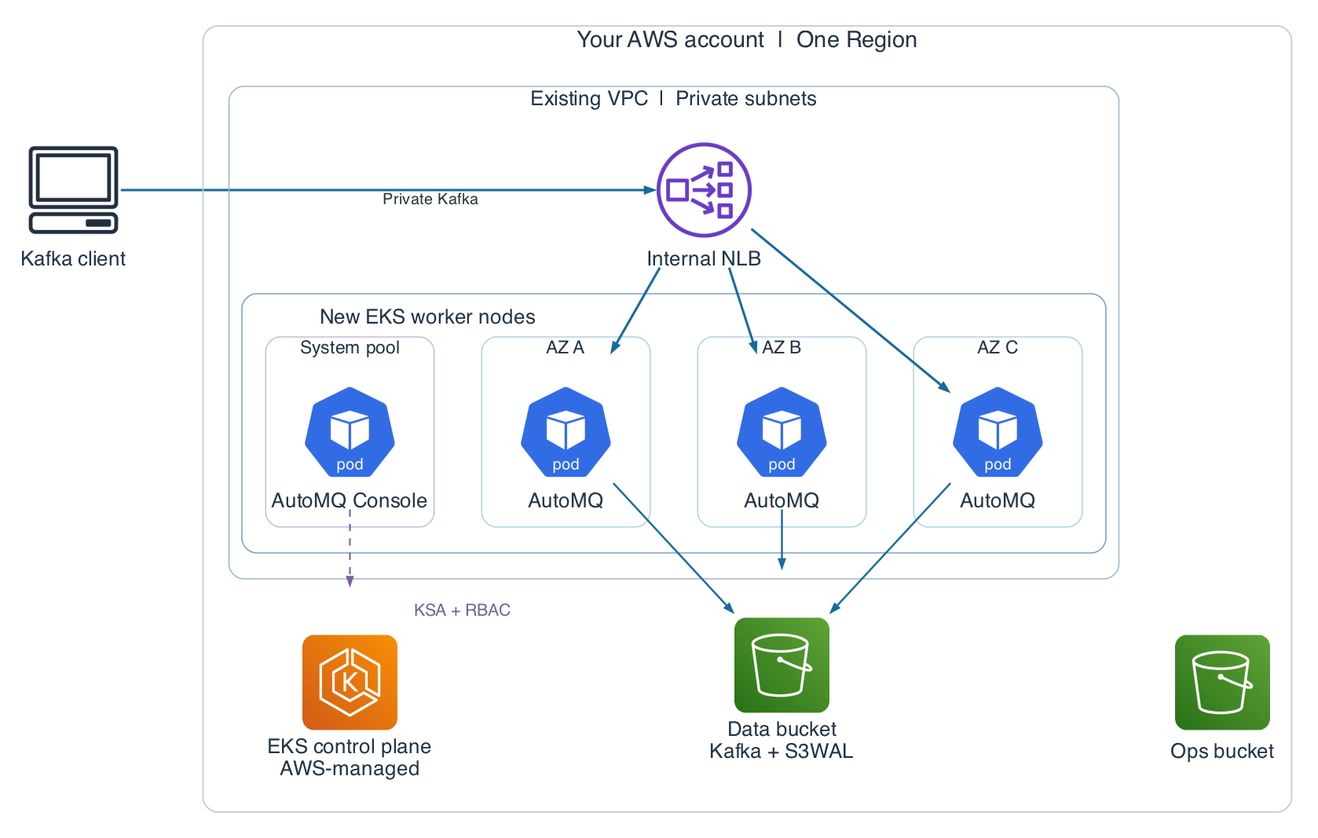
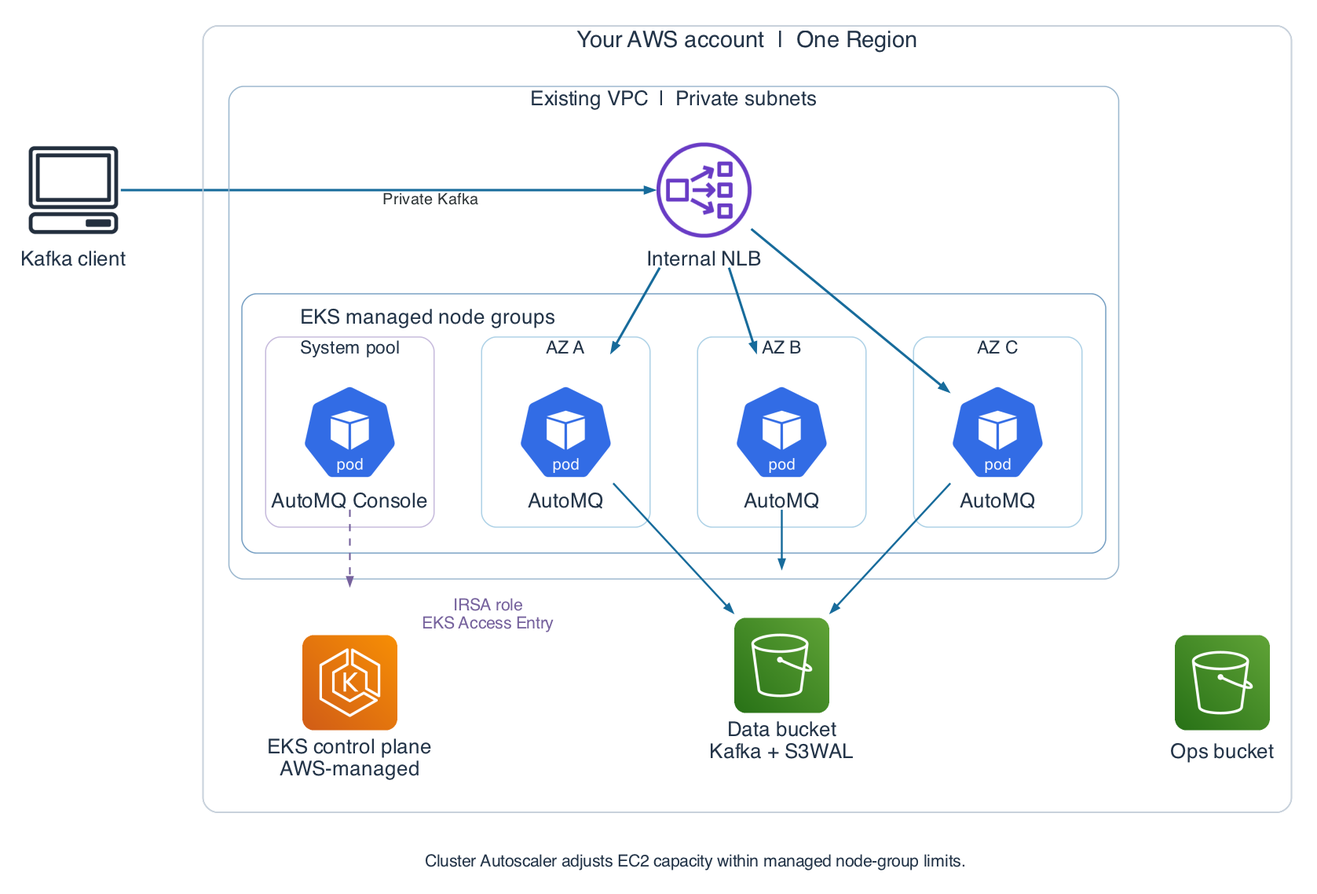
feat: use released AWS Console with EKS Access Entries

diff --git a/byoc-examples/setup/aws/aws-automq-env/assets/deployment-architecture.py b/byoc-examples/setup/aws/aws-automq-env/assets/deployment-architecture.py
@@ -4,7 +4,8 @@ Fixed Graphviz positions keep the customer overview compact and reproducible.
 Solid blue edges show Kafka/data traffic; the dashed purple edge is Kubernetes
 management. S3 access uses the existing gateway endpoint (omitted for clarity).
 Each workload uses its own IRSA role; the drawing does not prove IAM policy.
-Cluster add-ons and the LB Controller/Autoscaler are omitted for clarity.
+Cluster add-ons and the LB Controller are omitted for clarity.
+Managed node-group capacity is supplied by Cluster Autoscaler.
 """
 from pathlib import Path
 
@@ -45,8 +46,8 @@ with Diagram(
         ]
         for key, label, x, y, width, height, fill, border, fontsize in panels:
             getcluster().node(key, label, pos=f"{x},{y}!", pin="true", shape="box", style="rounded", fillcolor=fill, color=border, width=str(width), height=str(height), fixedsize="true", labelloc="t", labeljust="l", fontsize=fontsize, fontcolor="#233448")
-        getcluster().node("eks-heading", "New EKS worker nodes", pos="1.9,3.4!", pin="true", shape="plaintext", width="3.7", height="0.35", fontsize="17", fontcolor="#233448")
-        getcluster().node("ksa-caption", "KSA + RBAC", pos="2.3,0.0!", pin="true", shape="plaintext", width="1.9", height="0.3", fontsize="14", fontcolor=CONTROL)
+        getcluster().node("eks-heading", "EKS managed node groups", pos="1.9,3.4!", pin="true", shape="plaintext", width="3.7", height="0.35", fontsize="17", fontcolor="#233448")
+        getcluster().node("access-caption", "IRSA role\nEKS Access Entry", pos="2.6,0.0!", pin="true", shape="plaintext", width="2.8", height="0.6", fontsize="14", fontcolor=CONTROL)
         with Cluster("Existing VPC  |  Private subnets", graph_attr={"bgcolor": "#F7FAFD", "color": "#9BB7CE", "fontsize": "17", "margin": "16"}):
             nlb = icon(NLB, "Internal NLB", 5.1, 4.8)
             with Cluster("New EKS worker nodes", graph_attr={"bgcolor": "#FFFFFF", "color": "#769FC3", "fontsize": "17", "margin": "16"}):
@@ -59,6 +60,7 @@ with Diagram(
         api = icon(EKS, "EKS control plane\nAWS-managed", 1.0, -0.9)
         data = icon(S3, "Data bucket\nKafka + S3WAL", 6.0, -0.7)
         ops = icon(S3, "Ops bucket", 11.1, -0.9)
+    diagram.dot.node("capacity-caption", "Cluster Autoscaler adjusts EC2 capacity within managed node-group limits.", pos="5.0,-2.85!", pin="true", shape="plaintext", width="12.0", height="0.4", fontsize="14", fontcolor="#233448")
     client >> Edge(label="Private Kafka", color=DATA, penwidth="2.0") >> nlb
     nlb >> Edge(color=DATA, penwidth="2.0") >> brokers
     for broker in brokers:

diff --git a/byoc-examples/setup/aws/aws-automq-env/scripts/check-static.py b/byoc-examples/setup/aws/aws-automq-env/scripts/check-static.py
@@ -18,6 +18,8 @@ def main():
     for root in ["console", "automq-example/instance", "automq-example/smoke"]:
         for path in (ROOT / root).glob("*.tf"):
             assert "clientSecret =" not in path.read_text(), f"Literal CONFIG secret in {path}."
+    console_source = (ROOT / "console" / "main.tf").read_text()
+    assert 'resource "kubernetes_cluster_role_binding_v1"' not in console_source, "Console must use its EKS Access Entry rather than a Kubernetes cluster-admin binding."
     print("PASS: script syntax, local documentation links and placeholder checks.")
 
 if __name__ == "__main__":

diff --git a/byoc-examples/setup/aws/aws-automq-env/README.md b/byoc-examples/setup/aws/aws-automq-env/README.md
@@ -4,7 +4,7 @@ Use this example to deploy AutoMQ BYOC in your AWS account, reuse your existing 
 
 At the end of this guide, you will have a persistent Console, a managed Kafka Instance running across three Availability Zones, and a successful Kafka produce/consume check.
 
-> **Before provisioning AWS resources:** obtain a compatible Console image from AutoMQ. The Console image must support this ServiceAccount-based EKS deployment. A published compatible image is not yet available; `8.3.28-aws` and `latest` cannot be used. Set the image supplied by AutoMQ as `console_image`.
+This guide uses the released AWS Console image `automq.azurecr.io/automq/automq-byoc-console:8.4.13-aws` with Console Helm Chart `8.3.28`. The image runs the product; the Chart installs it. These version numbers do not need to match. Pin `console_image` to the exact released image in the [component configuration](docs/configuration.md#component-versions).
 
 ## In this guide
 
@@ -13,7 +13,8 @@ At the end of this guide, you will have a persistent Console, a managed Kafka In
 3. [Parameters you need to set](#parameters-you-need-to-set)
 4. [Deploy the environment](#deploy-the-environment)
 5. [Connect and verify Kafka](#connect-and-verify-kafka)
-6. [Clean up](#clean-up)
+6. [Scale the Instance and EKS capacity](#scale-the-instance-and-eks-capacity)
+7. [Clean up](#clean-up)
 
 For other requirements, see [configuration and deployment choices](docs/configuration.md) and [operations and troubleshooting](docs/operations.md).
 
@@ -21,7 +22,7 @@ For other requirements, see [configuration and deployment choices](docs/configur
 
 ![AutoMQ deployment on a new EKS cluster in your AWS account](assets/deployment-architecture.png)
 
-The Console and Kafka Instance share the new EKS cluster but use separate node pools and identities. Applications reach Kafka through a private Network Load Balancer (NLB). Console uses its Kubernetes ServiceAccount and RBAC to manage this cluster, and its own IRSA role to call AWS APIs. Each Instance has its own Pod role, as do CNI, EBS CSI, the LB Controller and Autoscaler for their AWS API access. Nodes have no AutoMQ business permissions.
+The Console and Kafka Instance share the new EKS cluster but use separate node pools and identities. Applications reach Kafka through a private Network Load Balancer (NLB). Console obtains its own IAM role through IRSA. An EKS Access Entry grants that role permission to manage Kubernetes resources in this cluster. Each Instance has its own Pod role, as do CNI, EBS CSI, the LB Controller and Autoscaler for their AWS API access. Nodes have no AutoMQ business permissions.
 
 | Resource | Default configuration | Created and managed by |
 | --- | --- | --- |
@@ -37,7 +38,7 @@ The Console and Kafka Instance share the new EKS cluster but use separate node p
 
 The default creates five EC2 nodes before the Instance starts, each with a 40 GiB encrypted gp3 root disk. AWS charges apply to EKS, EC2, EBS, S3, load balancing, logging and other enabled services, alongside the AutoMQ subscription. Node-pool limits control available EKS capacity; they do not change the Instance's configured three-node size. An optional NAT gateway adds hourly and data-processing charges.
 
-This guide selects **Default Permissions + Helm Console + managed K8S Instance + IRSA**. Other [permission and deployment choices](docs/configuration.md#permission-and-deployment-choices) are alternatives, not additional steps to execute.
+This guide selects **Default Permissions + Helm Console + EKS Access Entry + managed K8S Instance + IRSA**. Other [permission and deployment choices](docs/configuration.md#permission-and-deployment-choices) are alternatives, not additional steps to execute.
 
 ## Before you start
 
@@ -50,15 +51,16 @@ Use these official guides when reviewing network requirements, node-pool sizing 
 | Prepare VPC, DNS and S3 access | [Prepare an AWS VPC](https://docs.automq.com/automq-cloud/getting-started/install-byoc-environment/aws/prepare-vpc) |
 | Plan node pools and Pod placement | [Prepare EKS compute capacity](https://docs.automq.com/automq-cloud/deploy-automq-on-kubernetes/deploy-to-aws-eks#step-3-prepare-eks-compute-capacity) and [SchedulingSpec](https://docs.automq.com/automq-cloud/deploy-automq-on-kubernetes/overview#schedulingspec) |
 | Review Console deployment and AWS workload roles | [Deploy Console on EKS](https://docs.automq.com/automq-cloud/getting-started/install-byoc-environment/aws/install-automq-on-aws#deploy-automq-console-on-eks) and [Instance IAM role and ServiceAccount](https://docs.automq.com/automq-cloud/deploy-automq-on-kubernetes/deploy-to-aws-eks#step-5-prepare-the-automq-workload-iam-role-and-serviceaccount) |
+| Review managed node-group autoscaling | [Cluster Autoscaler preparation](https://docs.automq.com/automq-cloud/deploy-automq-on-kubernetes/deploy-to-aws-eks) |
 | Create AutoMQ management API credentials | [AutoMQ Service Accounts](https://docs.automq.com/automq-cloud/manage-identities-and-access/service-accounts) |
 
-The official guides cover several deployment paths. In this example, Terraform prepares the node pools and cluster components, and Console manages Instance Data buckets, roles and private DNS. Follow this guide's `automq.io/pool` labels, Console ServiceAccount/RBAC and IRSA configuration; do not repeat manual provisioning steps or replace them with the alternative Access Entry/EKS Pod Identity configurations. Keep the supplied [component versions](docs/configuration.md#component-versions) together when planning changes.
+The official guides cover several deployment paths. In this example, Terraform prepares the node pools and cluster components, and Console manages Instance Data buckets, roles and private DNS. Follow this guide's `automq.io/pool` labels, Console IAM Role/Access Entry and IRSA configuration. Terraform creates the Console Access Entry described in the official [EKS authorization steps](https://docs.automq.com/automq-cloud/getting-started/install-byoc-environment/aws/install-automq-on-aws#grant-access-to-the-eks-cluster); you do not need to repeat those commands manually. Keep the supplied [component versions](docs/configuration.md#component-versions) together when planning changes.
 
 ### Prerequisites
 
 | Prepare | Requirement |
 | --- | --- |
-| AutoMQ environment | A new AWS BYOC Environment, its complete `CONFIG`, an active subscription and the compatible Console image |
+| AutoMQ environment | A new AWS BYOC Environment, its complete `CONFIG`, an active subscription and an official released AWS Console 8.x image |
 | AWS access | An AWS CLI profile with permission to provision the listed resources and the IAM role ARN used for EKS administration |
 | Existing network | One private subnet in each of three AZs, all in the VPC and Region specified by `CONFIG`; VPC DNS support and hostnames enabled |
 | S3 access | An S3 **Gateway** Endpoint associated with all selected private route tables; its policy allows the Ops bucket and future AutoMQ Data buckets |
@@ -100,7 +102,7 @@ Only the values in this table must be supplied for the standard path. Copy the s
 | `private_subnet_ids_by_az` | `infrastructure/terraform.tfvars` | Map exactly three AZ names to their private subnet IDs |
 | `s3_vpc_endpoint_id` | `infrastructure/terraform.tfvars` | Existing S3 Gateway Endpoint associated with those subnets' route tables |
 | `deployer_role_arn` | `infrastructure/terraform.tfvars` | IAM role actually used by your AWS profile to install Kubernetes/Helm resources; use the IAM role ARN, not an STS session ARN |
-| `console_image` | `console/terraform.tfvars` | Compatible `repository:tag` supplied by AutoMQ |
+| `console_image` | `console/terraform.tfvars` | Exact released AWS Console 8.x `repository:tag` from your installation command |
 | `automq_version` | `automq-example/instance/terraform.tfvars` | Available **data-plane** version shown by the initialized Console; this is separate from Console 8.x |
 | Management endpoint and keys | `AUTOMQ_BYOC_ENDPOINT`, `AUTOMQ_BYOC_ACCESS_KEY`, `AUTOMQ_BYOC_SECRET_KEY` | Local Console address and the AutoMQ management Service Account keys created in step 3 |
 | `kafka_password` | Environment variable `TF_VAR_kafka_password` | A dedicated password of at least 16 characters for the verification Kafka user |
@@ -114,6 +116,7 @@ The main defaults you may want to review are:
 | `system_instance_type` | `m7i.large` | Your system workloads need a different x86 node size |
 | `automq_instance_type` / Instance `instance_type` | Both `m7g.xlarge` | You choose another supported ARM Instance specification; **update both values together** |
 | `automq_max_nodes_per_az` | `4` | You want a different EKS capacity ceiling per AZ |
+| Instance `instance_node_count` | `3` | You want to change the requested number of AutoMQ nodes; Cluster Autoscaler supplies EC2 capacity within the node-pool limits |
 
 Keep EKS at 1.36 for the supplied component configuration. The [complete parameter reference](docs/configuration.md#terraform-inputs) covers the remaining defaults, versions and state-path options.
 
@@ -166,7 +169,7 @@ python3 scripts/kubectl.py get nodes \
   -L automq.io/pool,topology.kubernetes.io/zone
 ```
 
-**Expected result:** five Nodes are `Ready`: two in the `system` pool and one `automq` Node in each of three AZs. Terraform outputs identify the cluster, workload roles and network used by the following stages.
+**Expected result:** five Nodes are `Ready`: two in the `system` pool and one `automq` Node in each of three AZs. Terraform also grants the Console role a `STANDARD` EKS Access Entry with cluster-scoped `AmazonEKSClusterAdminPolicy`. Outputs identify the cluster, workload roles and network used by the following stages.
 
 The stages read adjacent local Terraform state by default. Keep this directory layout intact. For a shared deployment, configure a restricted remote backend and matching state handoffs before applying; see [state and credentials](docs/configuration.md#state-and-credentials).
 
@@ -174,7 +177,7 @@ The stages read adjacent local Terraform state by default. Keep this directory l
 
 ```bash
 cp console/terraform.tfvars.example console/terraform.tfvars
-# Set console_image to the compatible image supplied by AutoMQ.
+# Set console_image = "automq.azurecr.io/automq/automq-byoc-console:8.4.13-aws".
 terraform -chdir=console init
 terraform -chdir=console plan -out=console.tfplan
 terraform -chdir=console apply console.tfplan
@@ -252,6 +255,12 @@ python3 kafka-smoke.py
 **Expected result:** `PASS: produced and consumed exactly one matching record`, followed by the unique marker. You now have a working Kafka connection with authentication and Topic/Consumer group authorization.
 
 The default `SASL_PLAINTEXT` connection authenticates clients but does not encrypt traffic. This walkthrough is for a controlled private network. Review transport encryption, access and data-retention requirements before a production rollout.
+
+## Scale the Instance and EKS capacity
+
+The example uses Cluster Autoscaler with managed node groups. Changing the Instance size changes the requested number of AutoMQ Pods. Cluster Autoscaler then adds EC2 nodes when those Pods cannot fit on existing nodes, and removes unneeded nodes after scale-in. It does not choose the Instance's node count. The default business-pool limit is four EC2 nodes per AZ.
+
+To try **three → six → three** AutoMQ nodes, follow the [scaling procedure](docs/operations.md#scale-the-instance-and-managed-node-groups). Verify the Instance becomes available after each change, the Pods remain distributed across all three AZs, EC2 capacity follows the Pod demand, and the private Kafka check still passes. Scale-in can complete before Cluster Autoscaler's node-removal delay expires; continue observing EKS capacity until it settles.
 
 ## Clean up
 

diff --git a/byoc-examples/setup/aws/aws-automq-env/docs/configuration.md b/byoc-examples/setup/aws/aws-automq-env/docs/configuration.md
@@ -38,7 +38,7 @@ For sizing and placement requirements, review the official [EKS compute-capacity
 | Input | Required or default | Meaning and selection |
 | --- | --- | --- |
 | `automq_config` | Required; `TF_VAR_automq_config` | Same complete CONFIG as the foundation; Environment, Region and Ops bucket must match |
-| `console_image` | Required | Compatible `repository:tag` supplied by AutoMQ. This example has no compatible image default and rejects `latest`, `8.3.28` and `8.3.28-aws` |
+| `console_image` | Required | Exact official released AWS Console 8.x `repository:tag` from your installation command. Pin the release; `latest`, SNAPSHOT and placeholder values are rejected |
 | `infrastructure_state_path` | `../infrastructure/terraform.tfstate` | Foundation state path, resolved from `console/` |
 | `console_chart_path` | `null` | Optional local copy of the official pinned Chart for offline installation/validation. Default pulls the OCI Chart |
 | `deployer_assume_role_arn` | `null` | Optional explicit alternate-role path for AWS EKS token generation. The default uses the current profile session directly; use an authorized deployment role, never the Console role |
@@ -54,11 +54,12 @@ The Console persists state on an encrypted 20 GiB gp3 EBS volume. Its Service is
 | `automq_version` | Required | Data-plane version available in the initialized Console; use the selected Kafka Instance release, not a Console 8.x version |
 | `instance_name` | `aws-eks-managed-demo` | Display name for the new Kafka Instance |
 | `instance_type` | `m7g.xlarge` | Supported Instance specification matching foundation `automq_instance_type` |
+| `instance_node_count` | `3` | Requested AutoMQ node count, an integer of at least 3. Cluster Autoscaler supplies EC2 capacity for pending Pods within the foundation node-pool limits |
 | `infrastructure_state_path` | `../../infrastructure/terraform.tfstate` | Foundation state path, resolved from this directory |
 
 Set `AUTOMQ_BYOC_ENDPOINT`, `AUTOMQ_BYOC_ACCESS_KEY` and `AUTOMQ_BYOC_SECRET_KEY` in the environment for the AutoMQ provider. Create these keys using an AutoMQ management Service Account with the required permissions.
 
-The root creates three nodes across the three foundation AZs, with UsageBased pricing, S3WAL and SASL_PLAINTEXT. It reads the cluster **name**, private NLB subnets and business-pool scheduling from foundation state. It omits Data bucket, IAM role, DNS and namespace/ServiceAccount inputs so Console owns their lifecycle.
+The root defaults to three nodes across the three foundation AZs, with UsageBased pricing, S3WAL and SASL_PLAINTEXT. Set `instance_node_count` to change that requested size; see the [scaling procedure](operations.md#scale-the-instance-and-managed-node-groups). It reads the cluster **name**, private NLB subnets and business-pool scheduling from foundation state. It omits Data bucket, IAM role, DNS and namespace/ServiceAccount inputs so Console owns their lifecycle.
 
 The node root disks and Console volume explicitly enable EBS encryption. Instance metadata volumes use the Console-managed StorageClass `automq-disk-eks-gp3`; this example does not set `encrypted=true` on that StorageClass. Before creating an Instance, confirm that your AWS environment's EBS encryption settings meet your storage requirements.
 
@@ -118,7 +119,7 @@ Console access defaults to a localhost port-forward. Kafka requires independent 
 
 ## Permission and deployment choices
 
-Choose the combination that matches your resource-management policy. The deployment guide implements one path: **Default Permissions, Helm Console, managed K8S Instance and IRSA**.
+Choose the combination that matches your resource-management policy. The deployment guide implements one path: **Default Permissions, Helm Console, EKS Access Entry, managed K8S Instance and IRSA**.
 
 | Permission mode | Resource preparation | Suitable path |
 | --- | --- | --- |
@@ -132,16 +133,16 @@ For EKS Minimal, change the Instance inputs to supply `data_buckets`, `instance_
 | --- | --- | --- |
 | Console deployment | Official Helm Chart on EKS system nodes | VM/Docker; see the [EC2 Console example](../../ec2/README.md) |
 | Instance deployment | Console-managed K8S Instance | EC2/ASG; this is a different Instance deployment path |
-| Console Kubernetes access | In-cluster Kubernetes ServiceAccount + ClusterRoleBinding to `cluster-admin` | IAM principal + EKS Access Entry/EKS access policy; requires a compatible Console path and separate access configuration |
-| AWS workload credentials | IRSA for Console, each Instance and infrastructure components | AWS EKS Pod Identity is a distinct mechanism requiring separate compatibility validation |
+| Console Kubernetes access | Console IAM role + STANDARD EKS Access Entry with cluster-scoped `AmazonEKSClusterAdminPolicy` | Other authentication paths require their own published support and configuration; this guide uses the official IAM/Access Entry path |
+| AWS workload credentials | IRSA for Console, each Instance and infrastructure components | EKS Pod Identity, with its own agent/association configuration; follow the official workload-identity guide for that deployment choice |
 
 ### AWS and management permissions
 
 For Console's required AWS permissions, see [Complete Console initialization](https://docs.automq.com/automq-cloud/getting-started/install-byoc-environment/aws/install-automq-on-aws#complete-initialization), which explains the IAM policy displayed during initialization. This example's [foundation IAM configuration](../infrastructure/iam.tf) already provisions the Console role and policies. Use the official manual-grant steps to understand and review those permissions; a second manual role/policy setup is not needed for this path.
 
-For AWS role and workload-identity preparation, see the official [Console workload-identity guide](https://docs.automq.com/automq-cloud/getting-started/install-byoc-environment/aws/install-automq-on-aws#configure-the-workload-identity) and [Instance IAM role and ServiceAccount guide](https://docs.automq.com/automq-cloud/deploy-automq-on-kubernetes/deploy-to-aws-eks#step-5-prepare-the-automq-workload-iam-role-and-serviceaccount). Their manual provisioning and alternative identity paths explain the underlying requirements; these Terraform roots retain Console ServiceAccount/RBAC, IRSA and Console-managed Instance resources. AutoMQ [management Service Accounts](https://docs.automq.com/automq-cloud/manage-identities-and-access/service-accounts) grant management API access and are separate from AWS IAM roles.
+For AWS role and workload-identity preparation, see the official [Console workload-identity guide](https://docs.automq.com/automq-cloud/getting-started/install-byoc-environment/aws/install-automq-on-aws#configure-the-workload-identity) and [Instance IAM role and ServiceAccount guide](https://docs.automq.com/automq-cloud/deploy-automq-on-kubernetes/deploy-to-aws-eks#step-5-prepare-the-automq-workload-iam-role-and-serviceaccount). Their manual provisioning and alternative identity paths explain the underlying requirements; these Terraform roots configure Console IRSA, its EKS Access Entry and Console-managed Instance resources. AutoMQ [management Service Accounts](https://docs.automq.com/automq-cloud/manage-identities-and-access/service-accounts) grant management API access and are separate from AWS IAM roles.
 
-The deployer has its own EKS Access Entry, independent of Console. IRSA is a Pod-level identity mechanism; it is not the AWS EKS Pod Identity product. Default Permissions and `cluster-admin` are broad permissions for resource management. Pod identity isolation does not by itself make the permission set least-privilege: review the [foundation IAM policies](../infrastructure/iam.tf) against your security requirements. Nodes receive worker/ECR policies only, while business permissions stay on their workload roles. IMDSv2 with hop limit 1 restricts ordinary Pod access to Node credentials; hostNetwork/infrastructure Pods need separate review.
+The deployer and Console have separate EKS Access Entries. Console's IRSA role supplies its AWS identity; the Access Entry grants that same role Kubernetes access through `AmazonEKSClusterAdminPolicy`. The Console ServiceAccount has no `cluster-admin` ClusterRoleBinding in this example. IRSA is a Pod-level identity mechanism; it is not the AWS EKS Pod Identity product. Default Permissions and the cluster-scoped EKS admin policy grant broad resource-management permissions. Pod identity isolation does not by itself make the permission set least-privilege: review the [foundation IAM policies](../infrastructure/iam.tf) against your security requirements. Nodes receive worker/ECR policies only, while business permissions stay on their workload roles. IMDSv2 with hop limit 1 restricts ordinary Pod access to Node credentials; hostNetwork/infrastructure Pods need separate review.
 
 ## Component versions
 
@@ -155,12 +156,14 @@ Use the supplied versions as a coordinated configuration. Console Chart and imag
 | AWS / TLS providers | `6.13.0` / `4.1.0` |
 | Kubernetes / Helm providers | `2.38.0` / `2.17.0` |
 | Console Chart | `oci://automq.azurecr.io/helm/automq-byoc-console-chart`, `8.3.28` |
-| Console image | Explicit compatible image from AutoMQ; no default |
+| Console image | `automq.azurecr.io/automq/automq-byoc-console:8.4.13-aws` |
 | AWS Load Balancer Controller | Chart `1.13.4`, controller `2.13.4` |
 | Cluster Autoscaler | Chart `9.59.0`, image `v1.36.0` |
 | EKS add-ons | Compatible versions resolved during deployment, or exact `addon_versions` inputs |
 | AutoMQ Terraform provider | `0.4.8` |
 | Data plane | Explicit `automq_version` available in the initialized Console |
+
+Console Chart `8.3.28` is the deployment template; the pinned Console image runs product version `8.4.13`. The image version is independent of the Chart version.
 
 The Autoscaler image is explicitly aligned to EKS 1.36. Node AMI releases and default add-on resolution can change between deployments; retain your applied versions and AMI IDs with the deployment record when reproducibility is required.
 
@@ -170,11 +173,12 @@ Each root owns its own Terraform state. The defaults use the adjacent state path
 
 `CONFIG`, AutoMQ management keys and Kafka passwords must remain outside Git and command arguments. Terraform state and saved plans can contain plaintext secrets despite sensitive-output redaction. Use `umask 077`, encrypted storage and restricted access/backups. Kubernetes Secret encryption and authorization need the same protection. Keep shell tracing and `TF_LOG` disabled.
 
-The four identities have different purposes:
+These identities and grants have different purposes:
 
 | Identity | Used for |
 | --- | --- |
 | AWS deployment profile/role | Provisioning AWS resources and installing Kubernetes/Helm resources |
-| Kubernetes ServiceAccount and IRSA role | Console, Instance and component runtime authorization |
+| Kubernetes ServiceAccount and IRSA role | Console, Instance and component AWS runtime identity |
+| Console IAM role EKS Access Entry | Console authorization to manage Kubernetes resources |
 | AutoMQ management Service Account/access keys | Terraform management API requests for Instance/Topic/user/ACL lifecycle |
 | Kafka user/password | Application produce/consume authentication |

diff --git a/byoc-examples/setup/aws/aws-automq-env/docs/operations.md b/byoc-examples/setup/aws/aws-automq-env/docs/operations.md
@@ -1,6 +1,6 @@
 # Operations and troubleshooting
 
-Use this page when checking a deployment, exposing Console through HTTPS, recovering a partial failure or removing the environment. The [deployment guide](../README.md) contains the standard installation path.
+Use this page to check health and authorization, scale the Instance and EKS capacity, expose Console through HTTPS, recover a partial failure or remove the environment. The [deployment guide](../README.md) contains the standard installation path.
 
 ## Check deployment health
 
@@ -20,7 +20,7 @@ python3 scripts/kubectl.py -n kube-system get pods
 | Kubernetes reports unauthorized | Current AWS profile/role versus `deployer_role_arn`, deployer Access Entry | Use the authorized deployer role. Console's runtime role is a separate identity |
 | Nodes do not become ready or images do not pull | Outbound routes/NAT, DNS, registry access, instance quota and image architecture | Restore AWS API/registry access; system nodes are x86, business nodes are ARM |
 | Console PVC stays pending | EBS CSI controller and IRSA, StorageClass, available capacity and AZ scheduling | Inspect PVC events and CSI logs before changing storage |
-| Console cannot initialize | Complete CONFIG, matching Environment/Region/Ops bucket, subscription and compatible image | Confirm the installation values with AutoMQ; do not substitute an older Console image |
+| Console cannot initialize | Complete CONFIG, matching Environment/Region/Ops bucket, subscription and released AWS Console image | Confirm the installation values and selected release with AutoMQ |
 | Instance creation fails | Console events, data-plane version/specification availability, IAM errors, selected EKS cluster and three-AZ capacity | Fix the reported precondition and recover the existing operation before retrying |
 | Kafka bootstrap connects but produce/consume fails | Private DNS and routing to **all advertised broker endpoints**, SASL credentials and Topic/Consumer group ACLs | Use the exact returned endpoint/port and the dedicated Kafka password, not management keys. For clients in another VPC, review [cross-VPC access](https://docs.automq.com/automq-cloud/getting-started/install-byoc-environment/aws/prepare-vpc#configure-cross-vpc-access) |
 | Pending Pods do not trigger capacity | Autoscaler Pod/logs, node-pool maximums, business affinity/taint compatibility and AWS quota | Check the scheduling cause and available pool capacity; node scaling does not change Instance node count |
@@ -37,13 +37,66 @@ If a Deployment has a different name, list the Deployments in `kube-system` firs
 
 ## Check runtime authorization
 
-Console manages Kubernetes with its Pod ServiceAccount and a binding to the existing `cluster-admin` ClusterRole. Its AWS API access uses its separate IRSA role. Each managed Instance, CNI, EBS CSI, LB Controller and Autoscaler uses its own Pod role.
+Console obtains its IAM role through its Pod ServiceAccount and IRSA. A `STANDARD` EKS Access Entry associates that role with cluster-scoped `AmazonEKSClusterAdminPolicy`, allowing Console to manage Kubernetes resources. The deployer has a separate Access Entry. Each Instance, CNI, EBS CSI, LB Controller and Cluster Autoscaler uses its own Pod role for AWS access.
 
-When an AWS request is denied, inspect the intended role's trust and permissions, the Pod ServiceAccount and the actual caller. IRSA trust must match the EKS OIDC issuer, audience `sts.amazonaws.com` and exact namespace/ServiceAccount. Inspect actual Node role attachments as well: AutoMQ S3, DNS, IAM management or WAL permissions must not be added to Nodes as a workaround. Pod annotations alone do not establish the caller used for a request.
+When an AWS request is denied, inspect the intended role's trust and permissions, the Pod ServiceAccount and the actual caller. For roles prepared by these Terraform roots, verify that IRSA trust matches the EKS OIDC issuer, audience `sts.amazonaws.com` and intended namespace/ServiceAccount. Check Console's EKS Access Entry and associated access policy separately from S3/IAM permissions. Inspect actual Node role attachments as well: AutoMQ S3, DNS, IAM management or WAL permissions must not be added to Nodes as a workaround. Pod annotations alone do not establish the caller used for a request.
 
 For the AWS role-to-ServiceAccount requirements, see the official [Instance IAM role and ServiceAccount guide](https://docs.automq.com/automq-cloud/deploy-automq-on-kubernetes/deploy-to-aws-eks#step-5-prepare-the-automq-workload-iam-role-and-serviceaccount). Use it to review the role-to-ServiceAccount relationship while keeping this example's IRSA configuration. The Console and infrastructure components retain their separate roles.
 
 For S3WAL, Instance permissions cover its Data and Ops S3 resources; metadata disk operations use the EBS CSI identity. Ordinary Pods are restricted from Node credentials with IMDSv2/hop limit 1. Review hostNetwork and infrastructure Pods separately.
+
+## Scale the Instance and managed node groups
+
+Use the deployment terminal from [Create the Kafka Instance](../README.md#4-create-the-kafka-instance), with the same AWS profile and `AUTOMQ_BYOC_ENDPOINT`, `AUTOMQ_BYOC_ACCESS_KEY` and `AUTOMQ_BYOC_SECRET_KEY` available. Keep the Console port-forward running. Confirm the Instance is available before submitting another change.
+
+There are two sizes to observe:
+
+| Size | Controlled by | What changes it |
+| --- | --- | --- |
+| AutoMQ node count | Console management API, requested by the Instance Terraform root | `instance_node_count` |
+| EC2 capacity in each managed node group | Cluster Autoscaler, bounded by the foundation minimum/maximum | Pods that cannot be scheduled, then nodes that are no longer needed |
+
+The default is three AutoMQ nodes and one business EC2 node in each AZ. The following commands temporarily override `instance_node_count` to demonstrate **three → six → three**. For a lasting size change, save the desired count in `automq-example/instance/terraform.tfvars` so later plans keep the same intent.
+
+### Scale out to six AutoMQ nodes
+
+Check that `automq_max_nodes_per_az` permits at least two business EC2 nodes per AZ and that the account has the required EC2 quota. Review the Instance plan, then apply it:
+
+```bash
+terraform -chdir=automq-example/instance plan \
+  -var='instance_node_count=6' -out=scale-out.tfplan
+terraform -chdir=automq-example/instance apply scale-out.tfplan
+```
+
+In another deployment terminal, observe the Pods and EC2-backed Kubernetes nodes:
+
+```bash
+AUTOMQ_INSTANCE_ID="$(terraform -chdir=automq-example/instance output -raw instance_id)"
+python3 scripts/kubectl.py -n "$AUTOMQ_INSTANCE_ID" get pods -o wide
+python3 scripts/kubectl.py get nodes \
+  -L automq.io/pool,topology.kubernetes.io/zone,node.kubernetes.io/instance-type
+python3 scripts/kubectl.py -n kube-system get deployments
+```
+
+Use the actual Cluster Autoscaler Deployment name from the last command to read its logs. Look for unschedulable Pods, a scale-up decision and new Nodes becoming `Ready`. With the default node sizes and scheduling, the extra AutoMQ Pods require more business-node capacity. Keep the system pool separate from this count.
+
+**Expected result:** the Instance returns to an available state with six AutoMQ Pods `Ready`, distributed across all three AZs, and sufficient business EC2 nodes to run them. On the [private Kafka client](../README.md#6-produce-and-consume-from-a-private-client), run `python3 kafka-smoke.py` again with the same endpoint and Kafka credentials. Review client errors while the size change is in progress.
+
+### Scale back to three AutoMQ nodes
+
+After the six-node Instance and Kafka check succeed, request three nodes:
+
+```bash
+terraform -chdir=automq-example/instance plan \
+  -var='instance_node_count=3' -out=scale-in.tfplan
+terraform -chdir=automq-example/instance apply scale-in.tfplan
+```
+
+**Expected result:** the Instance returns to an available state with three AutoMQ Pods `Ready` across the three AZs. Run the private Kafka check again. Cluster Autoscaler can remove the unneeded EC2 nodes after its scale-down delay and safety checks; continue observing the business pools until they return to the initial capacity of one node per AZ. Instance completion and EC2 node removal are separate events.
+
+The AutoMQ StatefulSets retain metadata PVCs on scale-in. PVCs and EBS volumes from removed Pods can remain and continue incurring storage charges after their EC2 nodes are gone. Keep those volumes under your data-retention policy and verify their ownership before any separate cleanup.
+
+If Pods remain Pending, inspect their scheduling events, the node-group limit, AutoMQ affinity/taints, EC2 quota and Autoscaler logs. If the Instance remains `Updating` while all Pods are ready and there is no scheduling backlog, inspect the Console task/logs and its EKS Access Entry rather than changing EC2 capacity.
 
 ## Recover an uncertain create operation
 
@@ -143,7 +196,7 @@ export TF_VAR_automq_config
 terraform -chdir=console destroy
 ```
 
-After the Console Pod and namespace are gone, inspect the recorded retained PV/EBS. Before deleting data, verify the PV's claim UID and CSI volume ID, `Retain` policy and `Released` state; verify the EBS volume's tags/creation identity and that it is detached/available. Delete only those exact owned resources when you intend to discard their data. Keep the Kubernetes built-in `cluster-admin` ClusterRole.
+After the Console Pod and namespace are gone, inspect the recorded retained PV/EBS. Before deleting data, verify the PV's claim UID and CSI volume ID, `Retain` policy and `Released` state; verify the EBS volume's tags/creation identity and that it is detached/available. Delete only those exact owned resources when you intend to discard their data. Preserve Kubernetes built-in roles and Access Entries owned by other administrators or services.
 
 ### 4. Remove the foundation and optional network
 

diff --git a/byoc-examples/setup/aws/aws-automq-env/assets/README.md b/byoc-examples/setup/aws/aws-automq-env/assets/README.md
@@ -8,4 +8,4 @@ python deployment-architecture.py
 
 The image is written beside the source regardless of the current directory. Fixed positions and transparent boundary panels keep the three AZs aligned at a readable Markdown width. AWS and Kubernetes service images come from the diagrams node catalog; boundary panels are layout primitives.
 
-The overview shows the default customer deployment, not every Kubernetes component. Solid blue edges show Kafka/data traffic, and the dashed purple edge shows Console's Kubernetes management path. S3 traffic uses the existing S3 Gateway Endpoint, omitted from the overview. The Console, each Instance and AWS-integrated controllers use separate IRSA roles; the diagram is not evidence of IAM permissions. Cluster add-ons and the LB Controller/Autoscaler are omitted for clarity.
+The overview shows the default customer deployment, not every Kubernetes component. Solid blue edges show Kafka/data traffic, and the dashed purple edge shows Console's IAM role and EKS Access Entry management path. S3 traffic uses the existing S3 Gateway Endpoint, omitted from the overview. The Console, each Instance and AWS-integrated controllers use separate IRSA roles; the diagram is not evidence of IAM permissions. Managed node groups and Cluster Autoscaler provide EC2 capacity; other cluster add-ons and the LB Controller are omitted for clarity.

diff --git a/byoc-examples/setup/aws/README.md b/byoc-examples/setup/aws/README.md
@@ -6,7 +6,7 @@ This section provides resources for deploying AutoMQ on Amazon Web Services.
 
 ### [New EKS with Helm Console (8.x)](aws-automq-env/README.md)
 
-Create a new EKS cluster in an existing network, install Console with Pod ServiceAccount/RBAC and IRSA, and validate a managed private Kafka Instance. Requires a compatible Console image with the documented unreleased fixes. This is an independent evaluation path.
+Create a new EKS cluster in an existing network, install a released Console with Helm, IRSA and EKS Access Entry, and validate a private Kafka Instance. Managed node groups and Cluster Autoscaler provide EC2 capacity as the Instance grows or shrinks.
 
 ### [Kubernetes (EKS)](eks/README.md)
 
